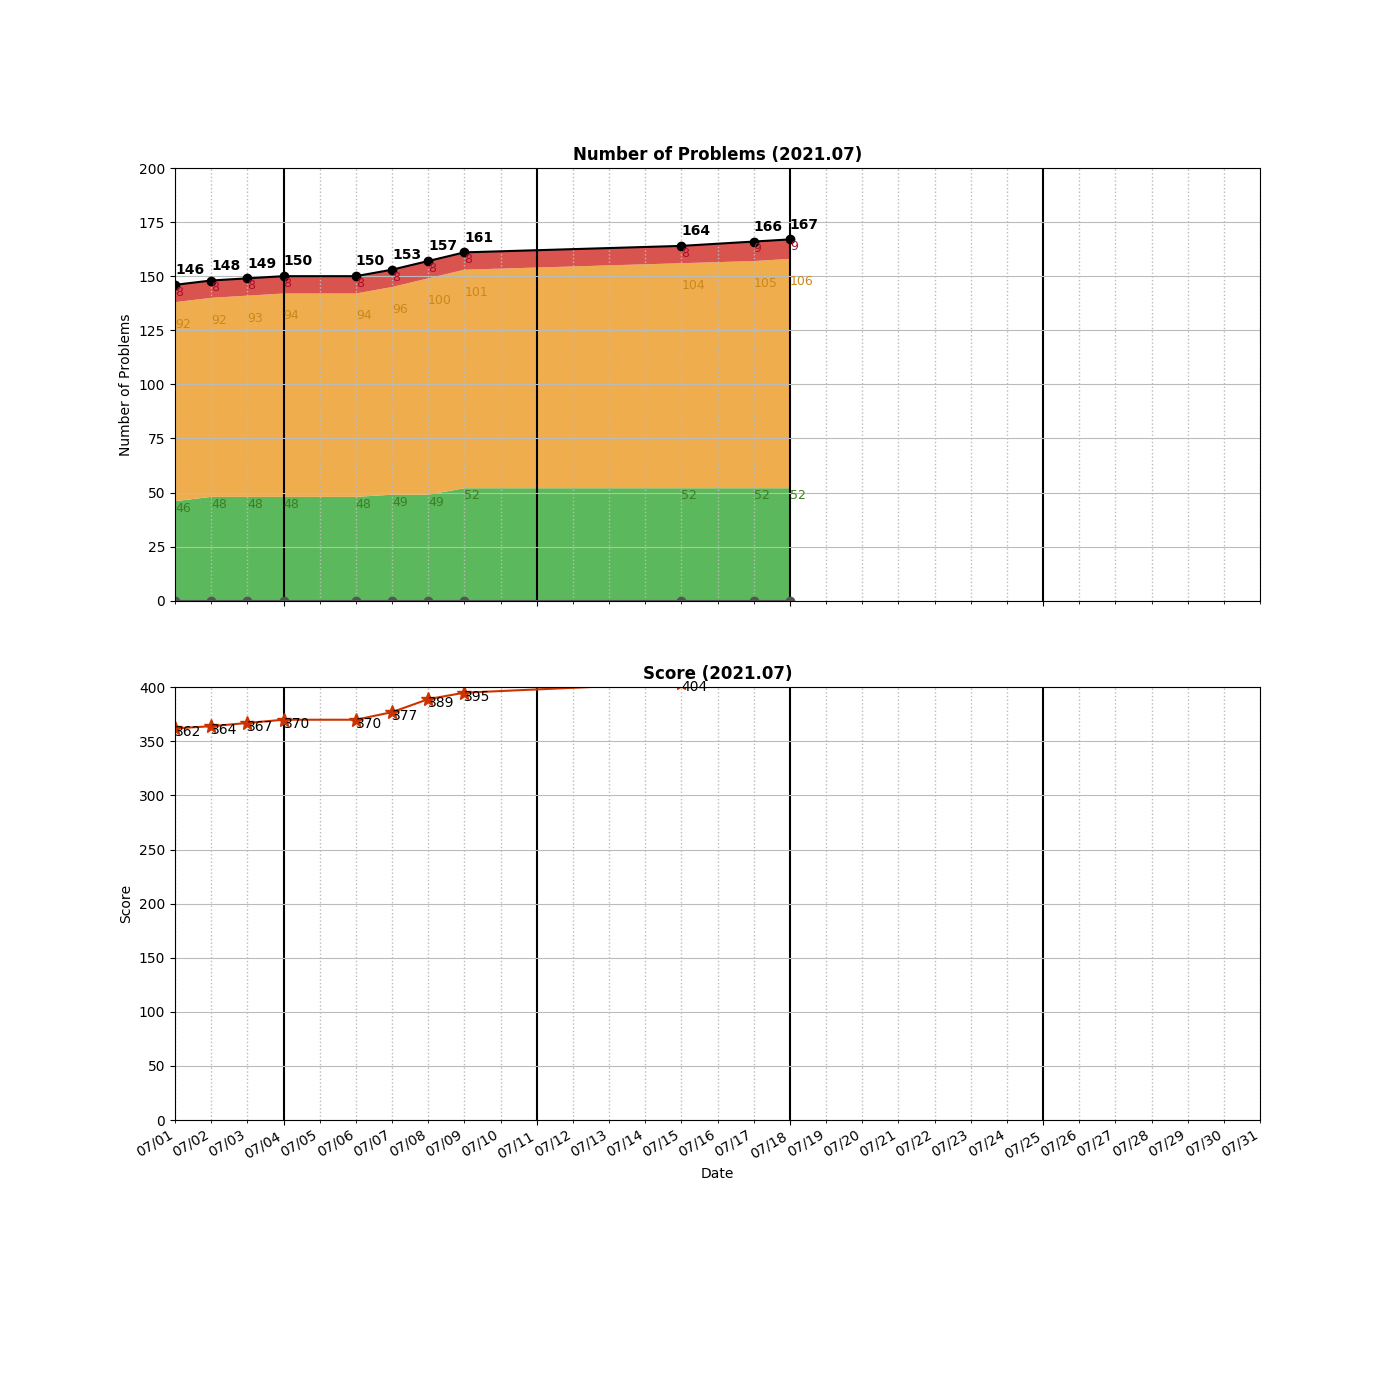
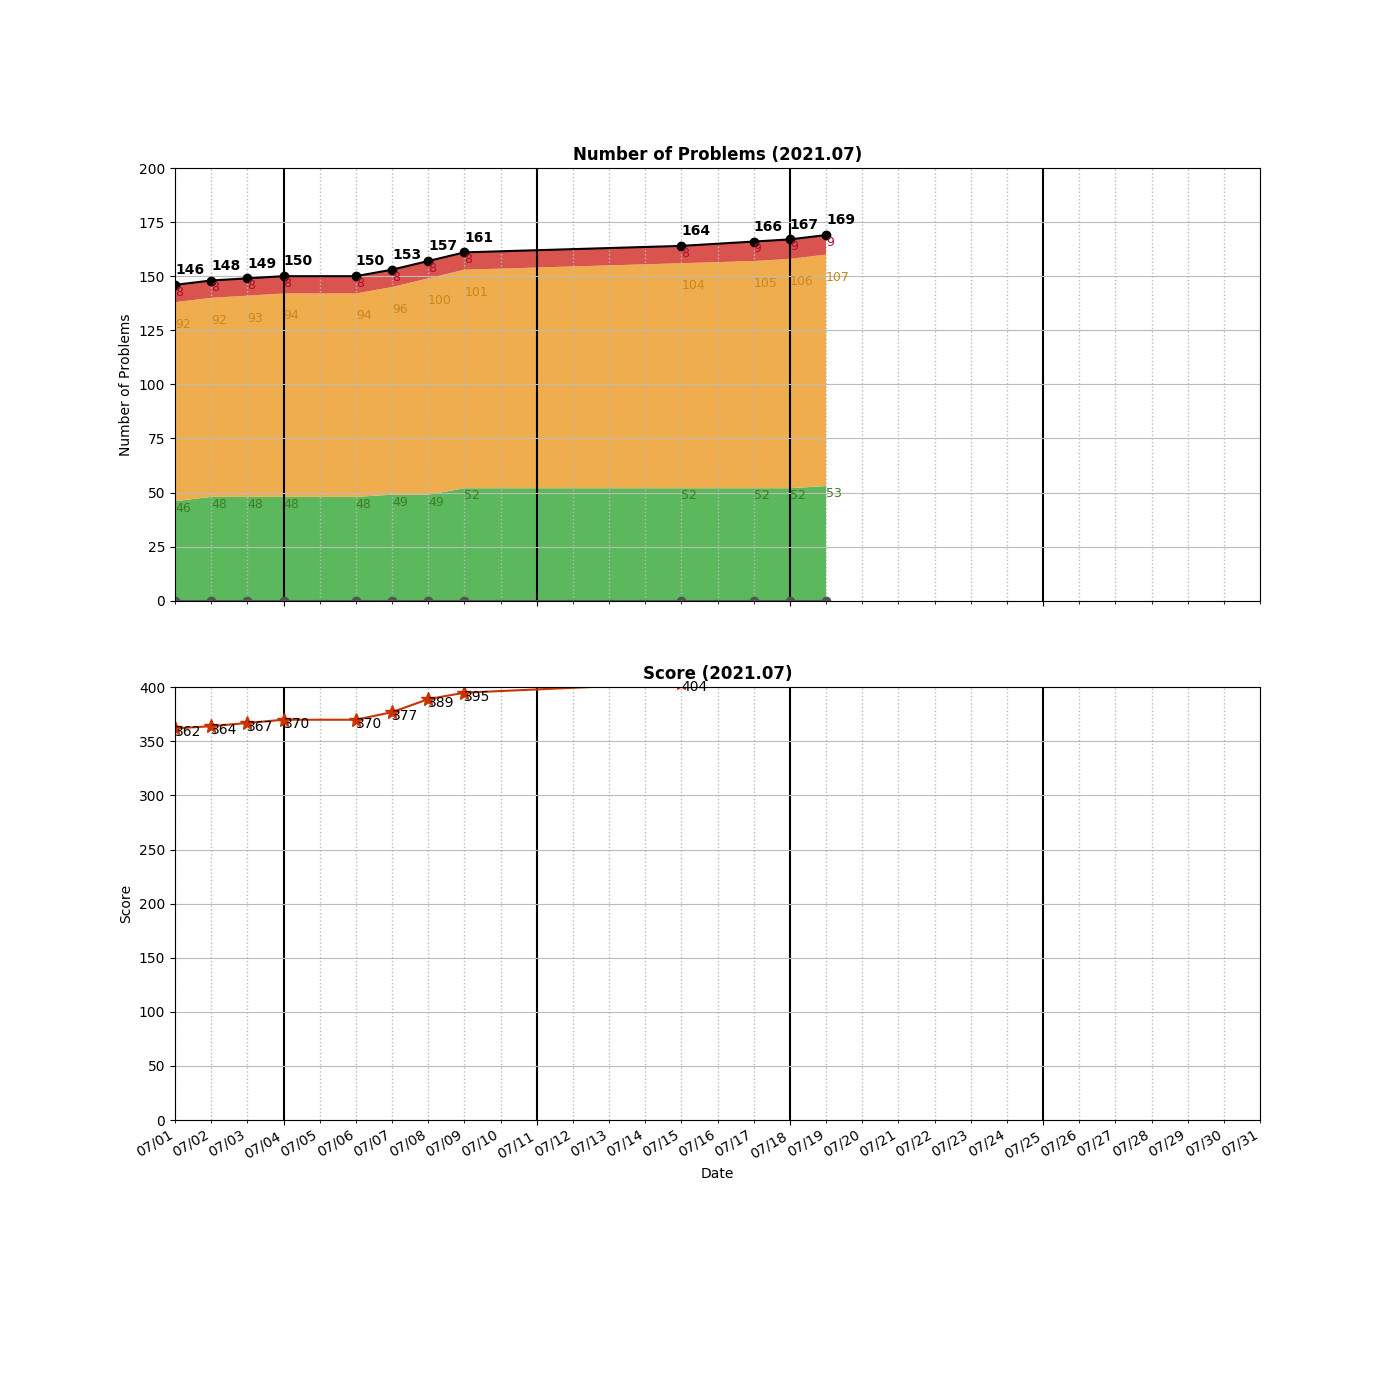
Added __0253__Meeting Rooms II.py

Changed region(s): [[0.5529, 0.1536, 0.6143, 0.43]]

diff --git a/algo/Array/__0253__Meeting Rooms II.py b/algo/Array/__0253__Meeting Rooms II.py
@@ -1,0 +1,25 @@
+import heapq
+class Solution:
+    
+    # Sorting [55%]
+    def minMeetingRooms(self, intervals: List[List[int]]) -> int:
+        if not intervals:
+            return 0
+        
+        count = 1
+        intervals.sort()
+        ends = [intervals[0][1]]
+        for i in range(1, len(intervals)):
+            start = intervals[i][0]
+            ends.sort()
+            newRoom = True
+            for end in ends:
+                if start >= end:
+                    ends.remove(end)
+                    ends.append(intervals[i][1])
+                    newRoom = False
+                    break
+            if newRoom:
+                ends.append(intervals[i][1])
+                count += 1
+        return count

diff --git a/README.md b/README.md
@@ -5,6 +5,8 @@ algo
 │   ├── __0056__Merge\ Intervals.py
 │   ├── __0122__Best\ Time\ to\ Buy\ and\ Sell\ Stock\ II.py
 │   ├── __0239__Sliding\ Window\ Maximum.py
+│   ├── __0252__Meeting\ Rooms.py
+│   ├── __0253__Meeting\ Rooms\ II.py
 │   ├── __0283__Move\ Zeroes.py
 │   ├── __0350__Intersection\ of\ Two\ Arrays\ II.py
 │   └── __0670__Maximum\ Swap.py
@@ -194,7 +196,7 @@ algo
         ├── LinkedList.cpython-37.pyc
         └── UnrolledLinkedList.cpython-37.pyc
 
-20 directories, 173 files
+20 directories, 175 files
 
 =====================================
 ============= Local Repo ============
@@ -302,6 +304,8 @@ __0239__Sliding Window Maximum.py
 __0240__Search a 2D Matrix II.py
 __0241__Different Ways to Add Parentheses.py
 __0242__Valid Anagram.py
+__0252__Meeting Rooms.py
+__0253__Meeting Rooms II.py
 __0257__Binary Tree Paths.py
 __0263__Ugly Number.py
 __0264__Ugly Number II.py
@@ -364,7 +368,7 @@ __1429__First Unique Number.py
 __1593__Split a String Into the Max Number of Unique Substrings.py
 __1905__Count Sub Islands.py
 =====================================
-Num of Python Practice:  164
+Num of Python Practice:  166
 
 
 =====================================
@@ -475,6 +479,8 @@ Num of Python Practice:  164
  0240 Search a 2D Matrix II
  0241 Different Ways to Add Parentheses
  0242 Valid Anagram
+ 0252 Meeting Rooms
+ 0253 Meeting Rooms II
  0257 Binary Tree Paths
  0263 Ugly Number
  0264 Ugly Number II
@@ -538,11 +544,11 @@ Num of Python Practice:  164
  1593 Split a String Into the Max Number of Unique Substrings
  1905 Count Sub Islands
 =====================================
-Solved / Total (Easy)  :   52 /  506
-Solved / Total (Medium):  106 / 1022
+Solved / Total (Easy)  :   53 /  506
+Solved / Total (Medium):  107 / 1022
 Solved / Total (Hard)  :    9 /  410
-Solved / Total (All)   :  167 / 1938
-Total Score            :  415
+Solved / Total (All)   :  169 / 1938
+Total Score            :  419
 =====================================
 
 ```
